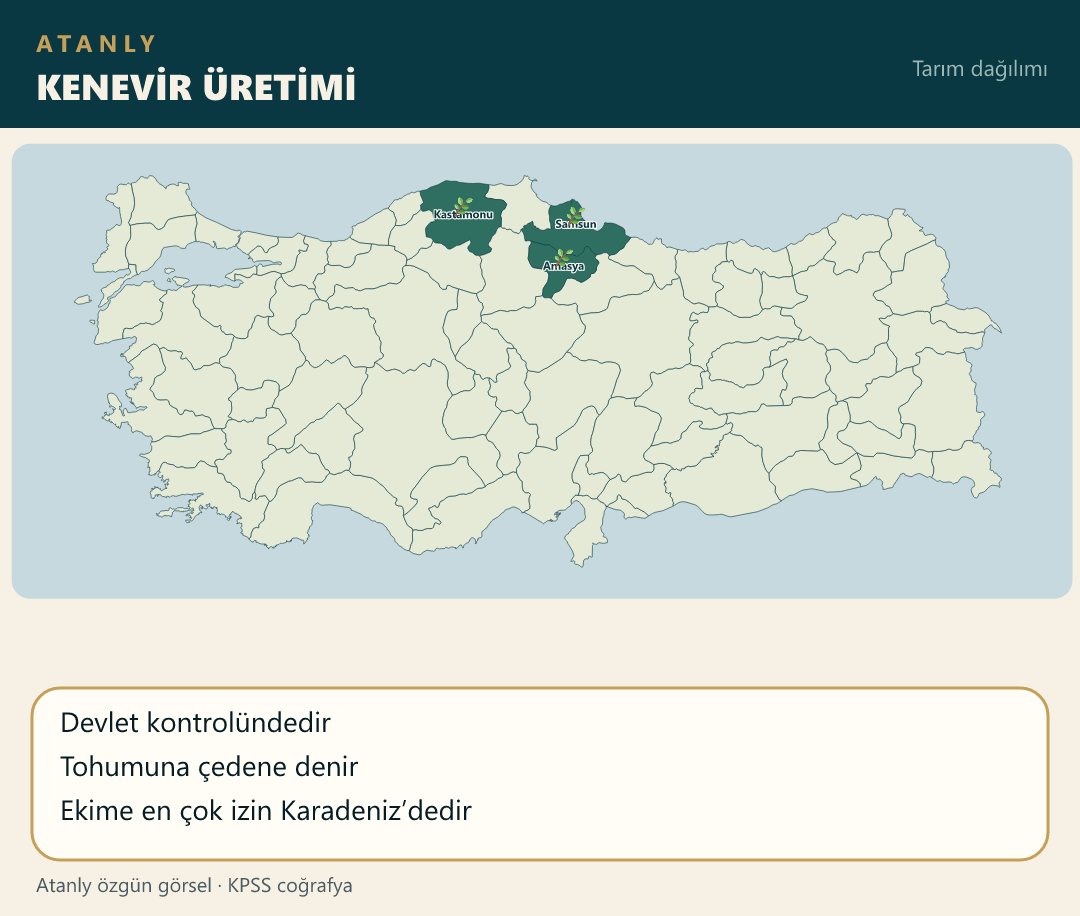
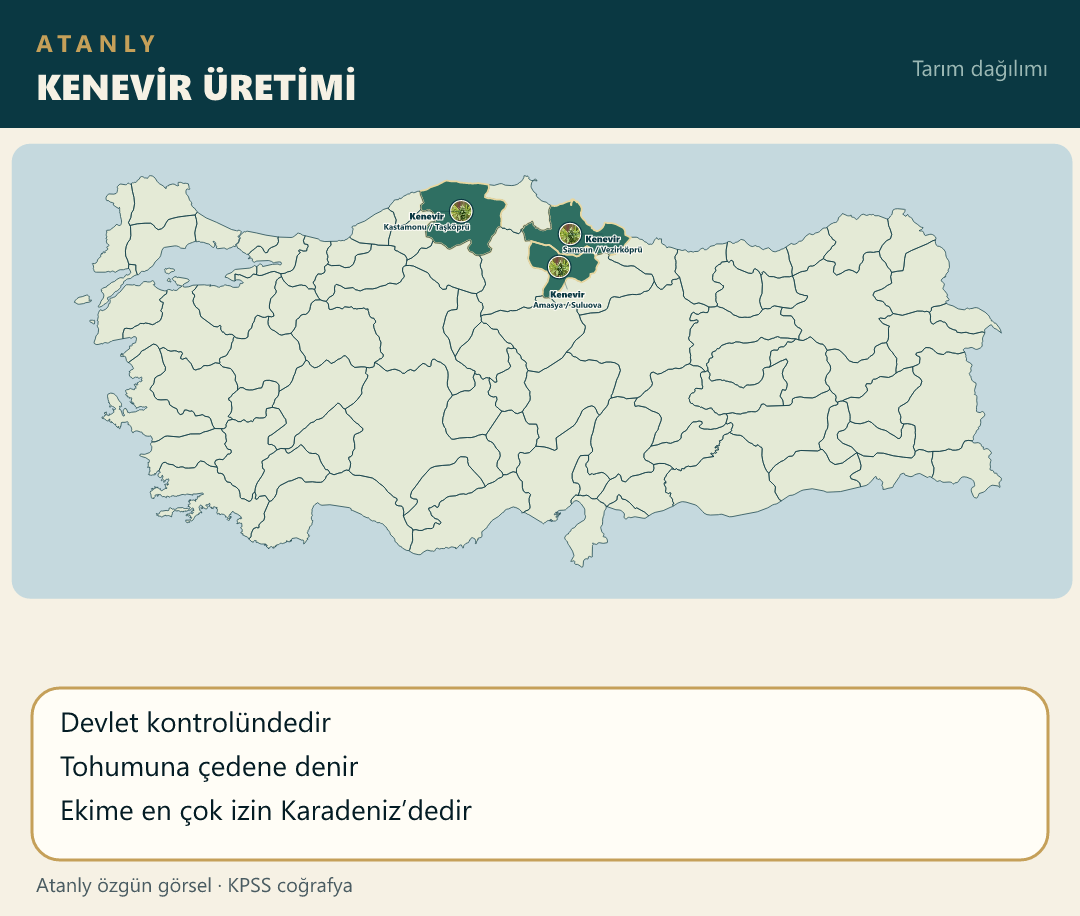
Place the hemp photo on Black Sea kenevir production pins.

diff --git a/scripts/build-atanly-maps.js b/scripts/build-atanly-maps.js
@@ -670,7 +670,13 @@ function main() {
             ],
             facts: ["Isparta ‘gül bahçesi’ olarak anılır", "Yağ gülü üretimi yoğundur"] },
         { file: "turunc.png", title: "TURUNÇGİL ÜRETİMİ", iller: ["Antalya", "Mersin", "Adana", "Hatay", "Muğla"], facts: ["Akdeniz kıyı kuşağı", "Don riski düşük yerlerde yetişir"] },
-        { file: "kenevir.jpg", title: "KENEVİR ÜRETİMİ", iller: ["Kastamonu", "Amasya", "Samsun"], facts: ["Devlet kontrolündedir", "Tohumuna çedene denir", "Ekime en çok izin Karadeniz’dedir"] },
+        { file: "kenevir.jpg", title: "KENEVİR ÜRETİMİ", urun: "Kenevir",
+            noktalar: [
+                { il: "Kastamonu", ilce: "Taşköprü", ldx: -34, ldy: 8 },
+                { il: "Samsun", ilce: "Vezirköprü", ldx: 32, ldy: 8 },
+                { il: "Amasya", ilce: "Suluova", ldx: 8, ldy: 30 }
+            ],
+            facts: ["Devlet kontrolündedir", "Tohumuna çedene denir", "Ekime en çok izin Karadeniz’dedir"] },
         { file: "kanola.jpg", title: "KANOLA ÜRETİMİ", urun: "Kanola",
             noktalar: [
                 { il: "Edirne", ilce: "Uzunköprü", ldx: -36, ldy: -8 },

diff --git a/notlar/cografya-18-not.js b/notlar/cografya-18-not.js
@@ -277,7 +277,7 @@ window.cografya_18_notlari = [
         </div>
         <!-- 🗺 HARİTA / RESİM ALANI -->
             <div class="mt-4 overflow-hidden rounded-xl border border-blue-200 dark:border-blue-700/50 bg-white dark:bg-slate-800 p-2">
-                <img src="./src/img/kenevir.jpg?v=9" alt="FINDIK Haritası" class="w-full h-auto rounded-lg object-contain" loading="lazy">
+                <img src="./src/img/kenevir.jpg?v=10" alt="KENEVİR Haritası" class="w-full h-auto rounded-lg object-contain" loading="lazy">
             </div>
     </div>
     `,

diff --git a/index.html b/index.html
@@ -116,7 +116,7 @@
     <script src="notlar/cografya-15-not.js?v=9"></script>
     <script src="notlar/cografya-16-not.js?v=3"></script>
     <script src="notlar/cografya-17-not.js?v=3"></script>
-    <script src="notlar/cografya-18-not.js?v=16"></script>
+    <script src="notlar/cografya-18-not.js?v=17"></script>
     <script src="notlar/cografya-19-not.js?v=24"></script>
     <script src="notlar/cografya-20-not.js?v=1"></script>
     <script src="notlar/cografya-21-not.js?v=4"></script>
